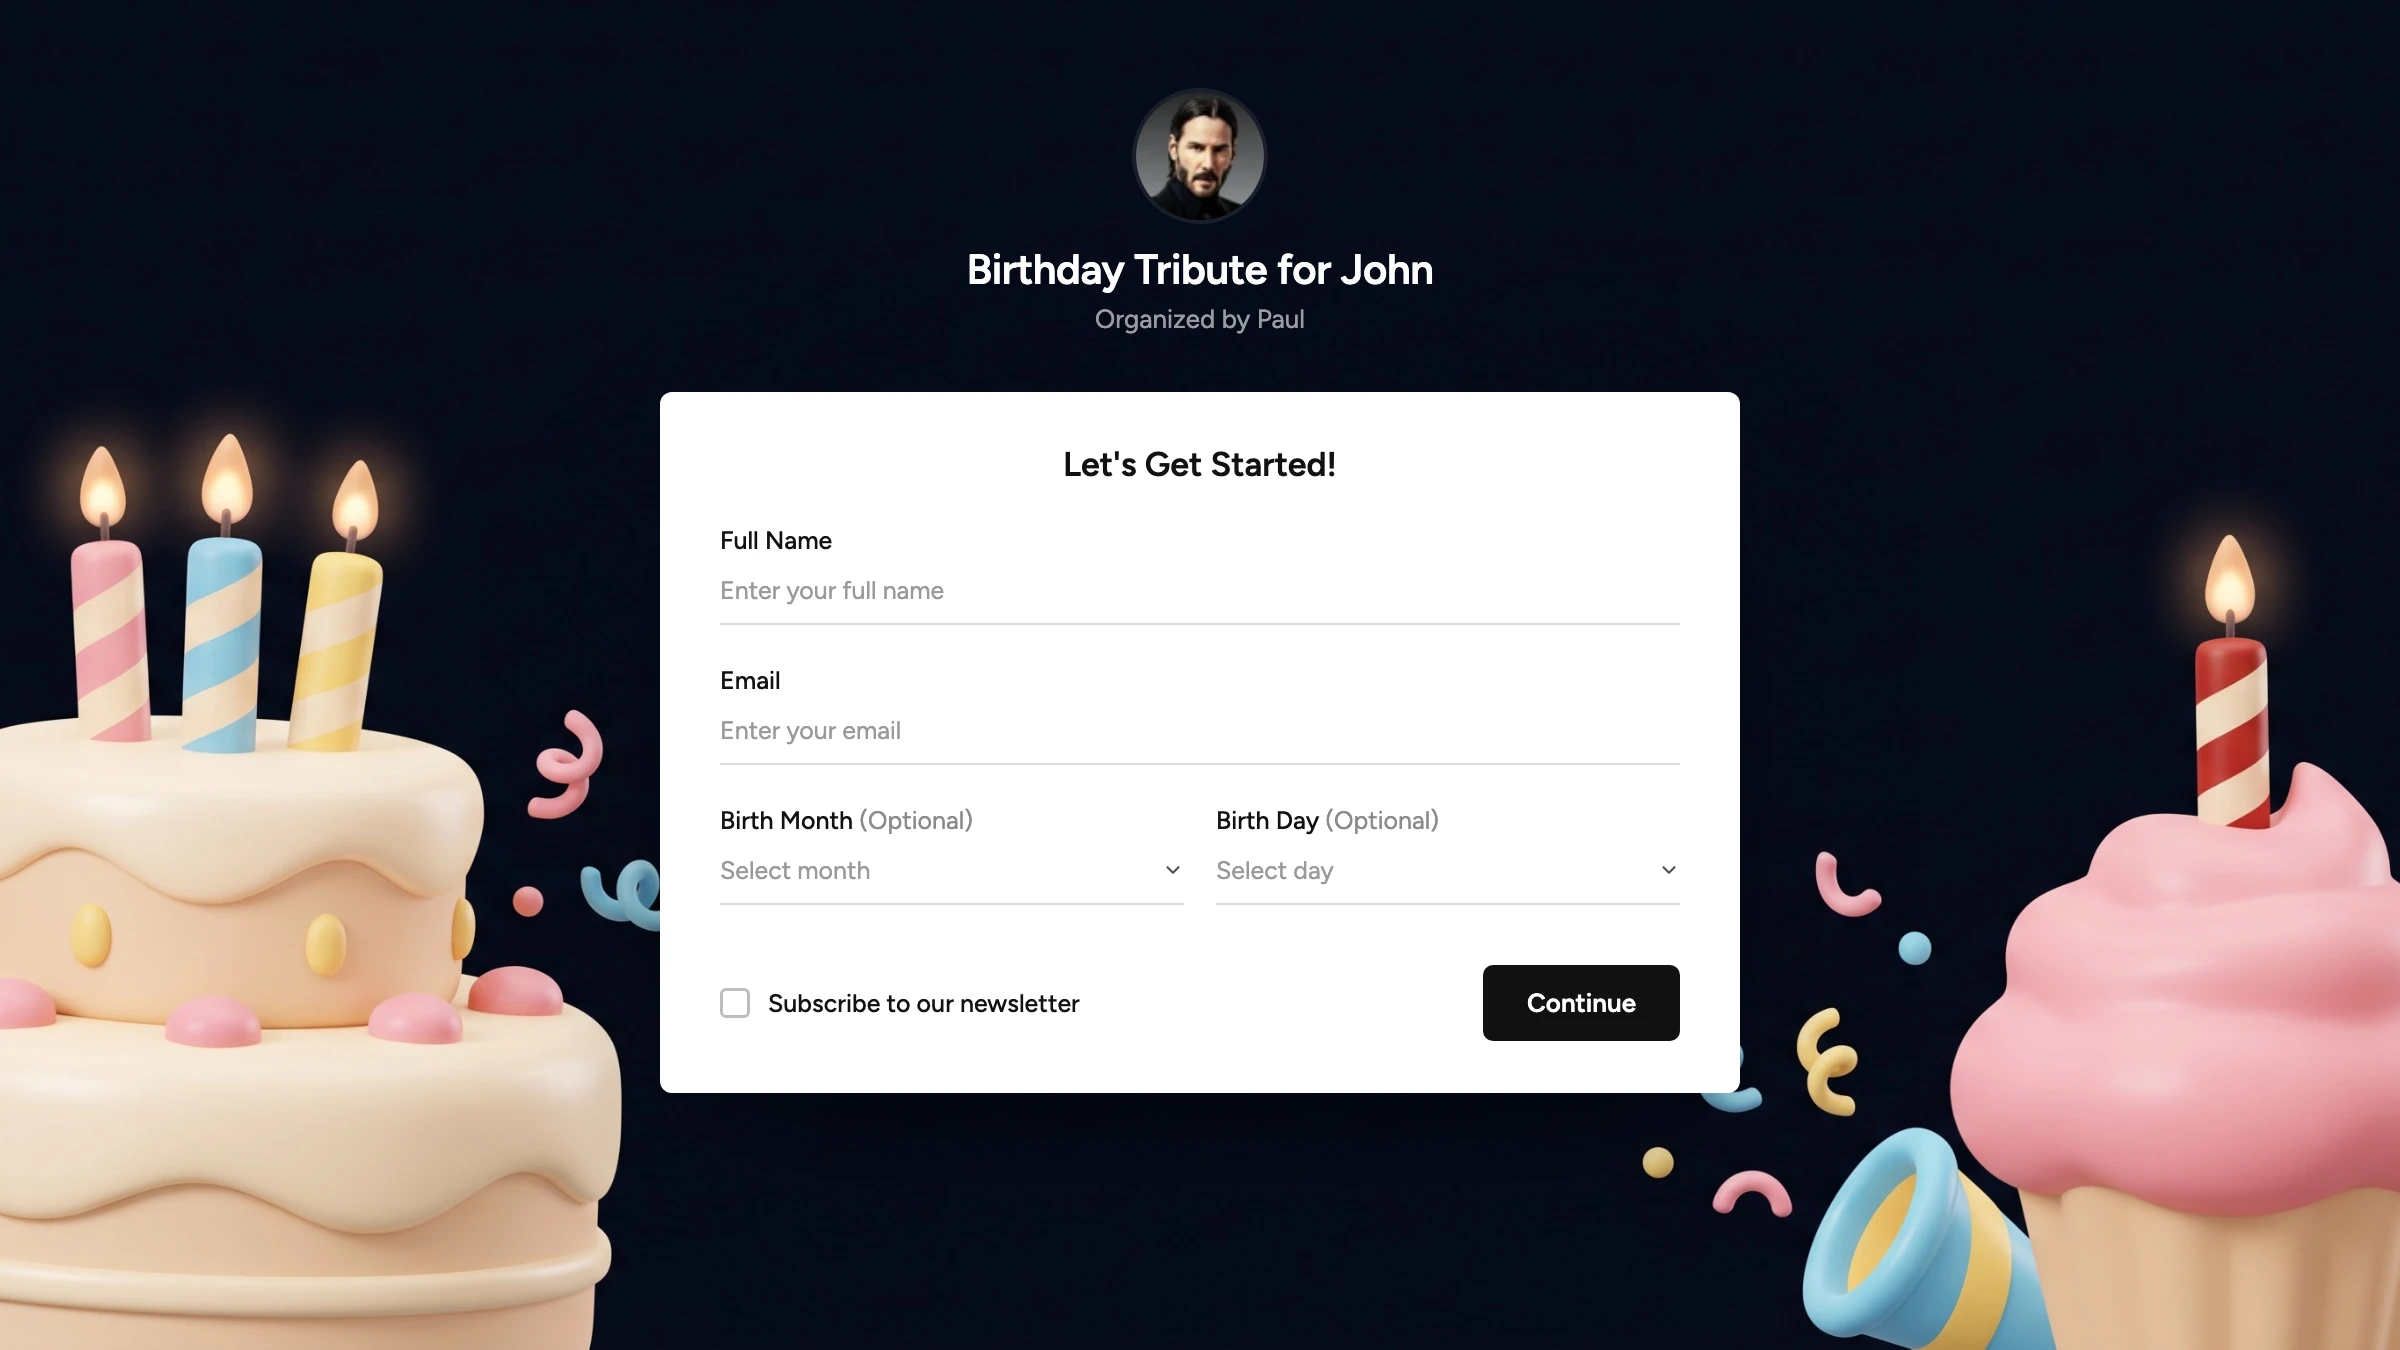
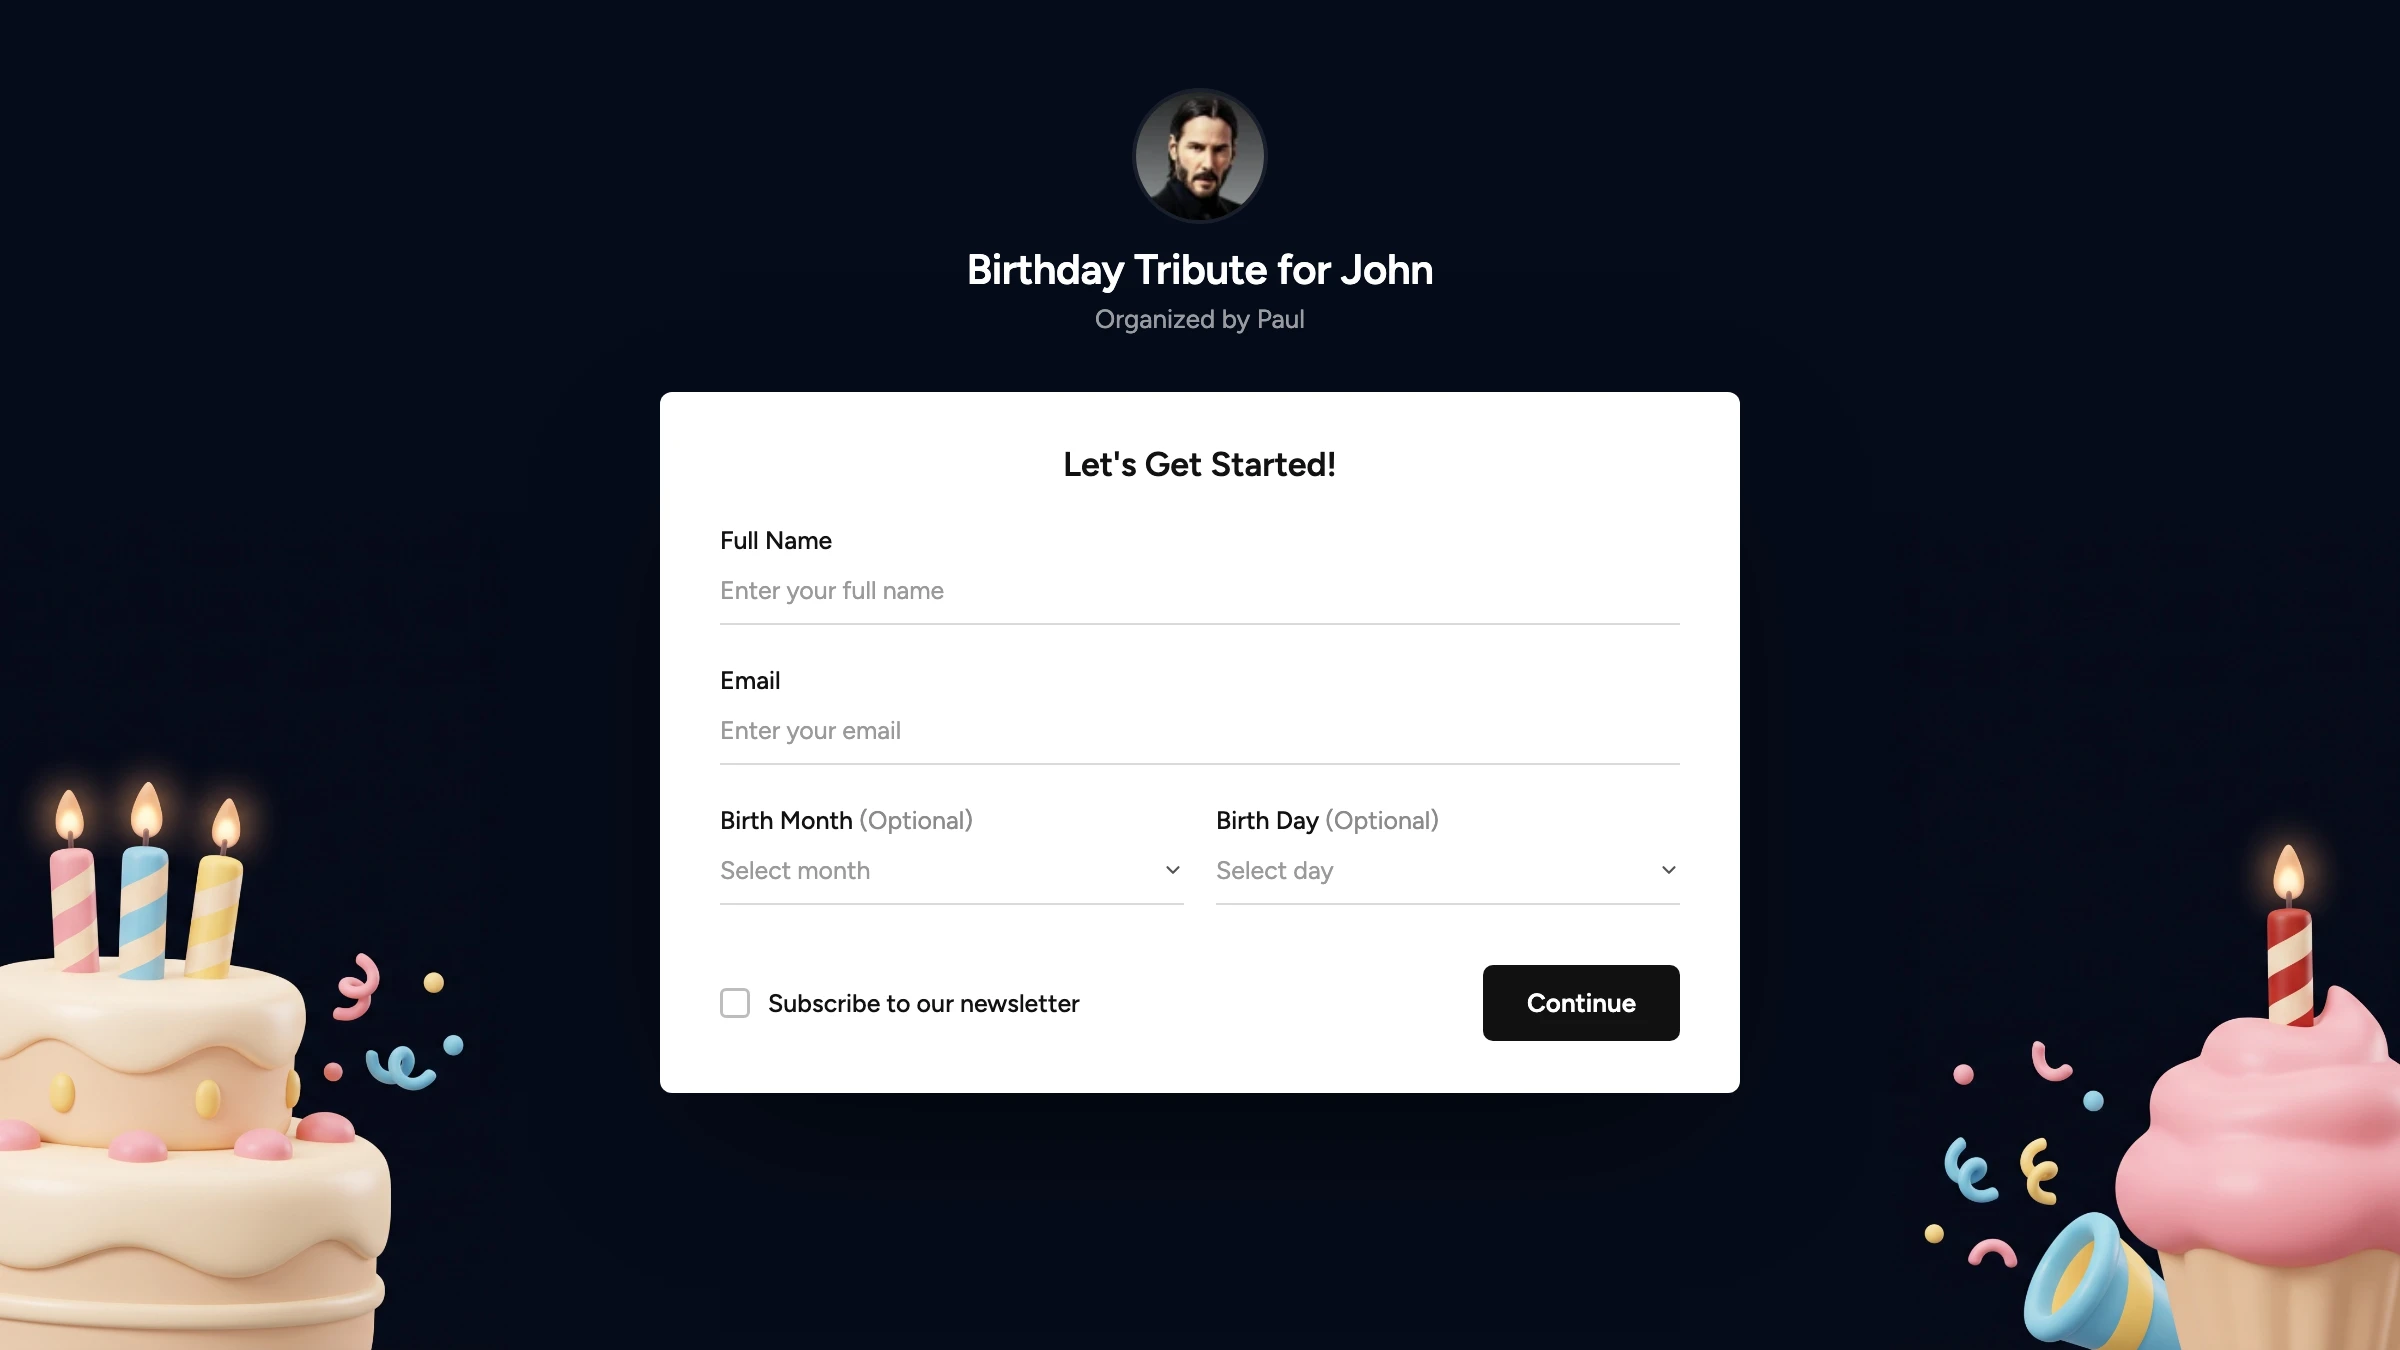
Scale the recording-flow clay art down to sit beside the form
At full frame the cake and cupcake dwarfed the form card. The art is now cut
into its two clusters along the flat ground and each is pinned to its own
bottom corner at 62% of the frame height, so they shrink without sliding in
behind the card. Both scenes share scene.js; SCALE in render.ts sets the size.

Changed region(s): [[0.0, 0.3111, 0.2812, 1.0], [0.6875, 0.3733, 1.0, 1.0], [0.75, 0.6222, 0.7812, 0.6844]]

diff --git a/scripts/recording-flow-art/render.ts b/scripts/recording-flow-art/render.ts
@@ -13,9 +13,9 @@
  * stays crisp: `tribute-logo.svg` is the official mark from that same guide,
  * and John's avatar is cropped from gallery-2, the clean product screenshot.
  *
- * `GROUND` must match the art's own navy. The browser window is taller than the
- * art's 16:9, so the strip above it is a flat fill; a value even a few levels
- * off shows as a horizontal seam across the header.
+ * `GROUND` must match the art's own navy: everything outside the two clusters
+ * is a flat fill, and a value even a few levels off shows as a visible box
+ * around each one.
  */
 import { execFileSync } from 'node:child_process';
 import { cpSync, mkdtempSync } from 'node:fs';
@@ -28,9 +28,22 @@ const ASSETS = new URL('../../src/assets/work/recording-flow/', import.meta.url)
 const CHROME = '/Applications/Google Chrome.app/Contents/MacOS/Google Chrome';
 const ART = 'birthday-art.jpg';
 const GROUND = '060c1a';
+// Each cluster's height as a % of the frame. At full size (the art filling the
+// frame) the cake and cupcake dwarfed the form card; the clusters are cut out
+// of the flat ground and pinned to their own corners instead, so they can be
+// scaled without sliding in behind the card.
+const SCALE = process.env.SCALE ?? '62';
+// Where to cut: the clusters live in the outer third on each side and the
+// middle is flat ground, so a cut anywhere in it is invisible.
+const SPLIT = 0.34;
 
 const work = mkdtempSync(join(tmpdir(), 'rf-art-'));
-for (const f of ['hero.html', 'g1.html', 'tribute-logo.svg', ART]) cpSync(HERE + f, join(work, f));
+for (const f of ['hero.html', 'g1.html', 'scene.js', 'tribute-logo.svg']) cpSync(HERE + f, join(work, f));
+
+const { width: AW = 0, height: AH = 0 } = await sharp(HERE + ART).metadata();
+const cut = Math.round(AW * SPLIT);
+await sharp(HERE + ART).extract({ left: 0, top: 0, width: cut, height: AH }).png().toFile(join(work, 'art-left.png'));
+await sharp(HERE + ART).extract({ left: AW - cut, top: 0, width: cut, height: AH }).png().toFile(join(work, 'art-right.png'));
 
 const g2 = ASSETS + 'recording-flow-gallery-2.webp';
 await sharp(g2).extract({ left: 668, top: 334, width: 82, height: 82 }).png().toFile(join(work, 'avatar.png'));
@@ -39,7 +52,7 @@ const shoot = (page: string, w: number, h: number, scale: number, out: string) =
   execFileSync(CHROME, [
     '--headless=new', '--disable-gpu', '--hide-scrollbars', '--allow-file-access-from-files',
     `--force-device-scale-factor=${scale}`, `--window-size=${w},${h}`, '--virtual-time-budget=5000',
-    `--screenshot=${out}`, `file://${join(work, page)}?art=${ART}&ground=${GROUND}`,
+    `--screenshot=${out}`, `file://${join(work, page)}?ground=${GROUND}&scale=${SCALE}`,
   ], { stdio: 'ignore' });
 
 // 1200x675 at 2x → 2400x1350, the work tile's 16:9.

diff --git a/scripts/recording-flow-art/g1.html b/scripts/recording-flow-art/g1.html
@@ -9,7 +9,7 @@
   .win { position: absolute; left: 68px; top: 163px; width: 1025px; height: 682px; background: #030712; border-radius: 10px; overflow: hidden; box-shadow: 0 30px 60px -30px rgba(0,0,0,0.6); }
   .bar { height: 32px; background: #1e1e1e; display: flex; gap: 7px; align-items: center; padding-left: 14px; }
   .bar i { width: 11px; height: 11px; border-radius: 50%; display: block; }
-  .inner { position: relative; height: 650px; background: var(--ground, #030712) var(--art) center bottom / 100% auto no-repeat; }
+  .inner { position: relative; height: 650px; background: var(--left) left bottom / auto var(--scale) no-repeat, var(--right) right bottom / auto var(--scale) no-repeat, var(--ground, #030712); }
   #decor { position: absolute; inset: 0; }
   .logo { position: absolute; left: 36px; top: 22px; height: 30px; }
   .help { position: absolute; right: 36px; top: 26px; color: #fff; font-size: 12.5px; font-weight: 600; display: flex; gap: 6px; align-items: center; }
@@ -114,9 +114,7 @@
 <script>
   const chev = '<svg width="11" height="11" viewBox="0 0 24 24" fill="none" stroke="#555" stroke-width="2.4" stroke-linecap="round" stroke-linejoin="round"><path d="M6 9l6 6 6-6"/></svg>';
   document.body.innerHTML = document.body.innerHTML.replaceAll('CHEV', chev);
-  const q = new URLSearchParams(location.search);
-  document.body.style.setProperty('--art', `url(${q.get('art')})`);
-  if (q.get('ground')) document.body.style.setProperty('--ground', '#' + q.get('ground'));
 </script>
+<script src="scene.js"></script>
 </body>
 </html>

diff --git a/scripts/recording-flow-art/hero.html b/scripts/recording-flow-art/hero.html
@@ -6,7 +6,7 @@
 <style>
   * { box-sizing: border-box; margin: 0; }
   html, body { width: 1200px; height: 675px; background: #030712; font-family: Figtree, sans-serif; overflow: hidden; }
-  .stage { position: relative; width: 1200px; height: 675px; background: var(--art) center bottom / cover no-repeat; }
+  .stage { position: relative; width: 1200px; height: 675px; background: var(--left) left bottom / auto var(--scale) no-repeat, var(--right) right bottom / auto var(--scale) no-repeat, var(--ground, #030712); }
   #decor { position: absolute; inset: 0; }
   .head { position: absolute; top: 46px; left: 0; right: 0; text-align: center; color: #fff; }
   .avatar { width: 64px; height: 64px; border-radius: 50%; overflow: hidden; margin: 0 auto 12px; box-shadow: 0 0 0 2px rgba(255,255,255,0.08); }
@@ -44,6 +44,6 @@
     <div class="foot"><div class="check"><div class="box"></div>Subscribe to our newsletter</div><div class="btn">Continue</div></div>
   </div>
 </div>
-<script>document.querySelector('.stage').style.setProperty('--art', `url(${new URLSearchParams(location.search).get('art')})`);</script>
+<script src="scene.js"></script>
 </body>
 </html>

diff --git a/scripts/recording-flow-art/scene.js b/scripts/recording-flow-art/scene.js
@@ -1,0 +1,8 @@
+// Shared by hero.html and g1.html: the art arrives as two clusters, pinned to
+// their own bottom corners and sized by height (?scale=, a % of the frame).
+const q = new URLSearchParams(location.search);
+const root = document.body.style;
+root.setProperty('--left', 'url(art-left.png)');
+root.setProperty('--right', 'url(art-right.png)');
+root.setProperty('--scale', (q.get('scale') ?? '62') + '%');
+if (q.get('ground')) root.setProperty('--ground', '#' + q.get('ground'));
